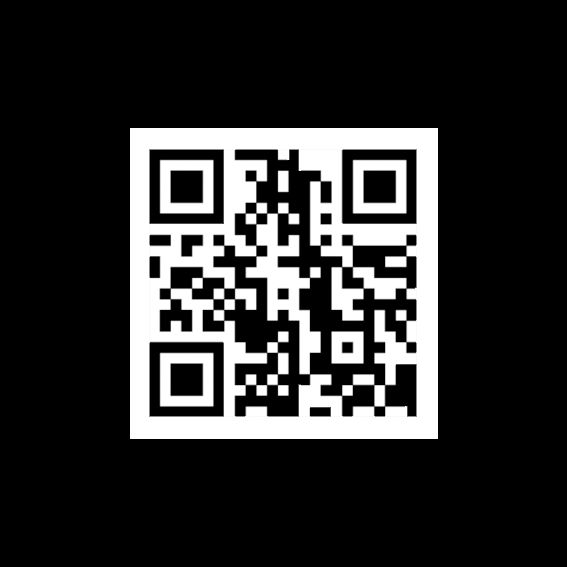
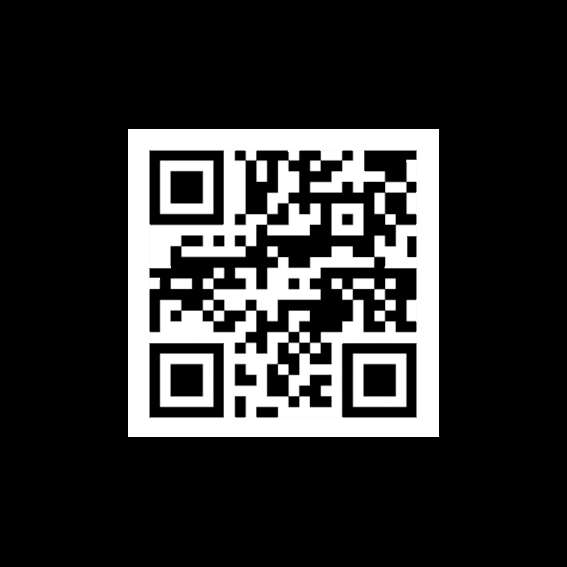
仿射变换

Changed region(s): [[0.2099, 0.2399, 0.7795, 0.7795]]

diff --git a/VisionPlatform/BarCode.cs b/VisionPlatform/BarCode.cs
@@ -26,7 +26,7 @@ namespace VisionPlatform
 			//while (true)
 			{
 				imageHanding();
-				//getBatCode();
+				getBatCode();
 			}
 		}
 
@@ -37,12 +37,13 @@ namespace VisionPlatform
 				try
 				{
 					UMat img = SoureceImage.ToUMat();
+					Image<Gray, byte> otsu = SoureceImage.CopyBlank();
 					// 转灰度图
 					//CvInvoke.CvtColor(img, img, ColorConversion.Bgr2Gray);
 					// 中值滤波(去除椒盐噪声)
-					CvInvoke.MedianBlur(img, img, 3);
+					CvInvoke.MedianBlur(img, otsu, 3);
 					// Otsu二值化
-					CvInvoke.Threshold(img, img, 0, 255, ThresholdType.Otsu);
+					CvInvoke.Threshold(otsu, img, 0, 255, ThresholdType.Otsu);
 					// 高斯滤波
 					CvInvoke.GaussianBlur(img, img, new Size(3, 3), 0);
 					// 形态学梯度运算
@@ -56,6 +57,7 @@ namespace VisionPlatform
 					List<int> index = new List<int>();
 					using (VectorOfVectorOfPoint contours = new VectorOfVectorOfPoint())
 					{
+						// 寻找轮廓
 						CvInvoke.FindContours(img, contours, null, RetrType.List, ChainApproxMethod.ChainApproxSimple);
 
 						int count = contours.Size;
@@ -102,13 +104,18 @@ namespace VisionPlatform
 						//line(image, vertices[i], vertices[(i + 1) % 4], Scalar(0, 255, 0));
 						Rectangle brect = box.MinAreaRect();
 						lineImage.Draw(brect, new Bgr(Color.DarkOrange), 2);
-						SoureceImage.ROI = brect;
-						testimg = SoureceImage.Clone();
-						SoureceImage.ROI = System.Drawing.Rectangle.Empty;
+
 					}
+					otsu.ROI = boxList[1].MinAreaRect();
+					testimg = otsu.Clone();
+					otsu.ROI = Rectangle.Empty;
+					Mat mapMatrix = new Mat();
+					PointF poi = new PointF(testimg.Size.Width / 2, testimg.Size.Height / 2);
+					CvInvoke.GetRotationMatrix2D(poi, boxList[1].Angle, 1.2, mapMatrix);
+					CvInvoke.WarpAffine(testimg, testimg, mapMatrix, testimg.Size);
 
 					SoureceImage.Bitmap = testimg.Bitmap;
-					ShowFormImage();
+					//ShowFormImage();
 				}
 				catch (Exception)
 				{
@@ -130,6 +137,7 @@ namespace VisionPlatform
 					IBarcodeReader reader = new BarcodeReader();
 					List<BarcodeFormat> Possible = new List<BarcodeFormat>();
 					Possible.Add(BarcodeFormat.QR_CODE);
+					Possible.Add(BarcodeFormat.DATA_MATRIX);
 					reader.Options.PossibleFormats = Possible;
 
 					DateTime timeStart = DateTime.Now;

diff --git a/VisionPlatform/Form1.cs b/VisionPlatform/Form1.cs
@@ -37,7 +37,7 @@ namespace VisionPlatform
 			//		Imgform = new Image<Gray, byte>(new Bitmap(cam.CameraImg));
 			//	}
 			//	});
-			//Imgform = new Image<Gray, byte>(@"./Image/20160812233754712.jpg");
+			//Imgform = new Image<Gray, byte>(@"./Image/DN[0X0IERXF@V5(D{FA90UI.jpg");
 			Imgform = new Image<Gray, byte>(@"./Image/00000002_0000014F8BAAE1AD.bmp");
 			//Imgform = new Image<Gray, byte>(@"./Image/QQ图片20170508152730.jpg");
 			//Imgform = new Image<Gray, byte>(@"./Image/未标题-1.png");
